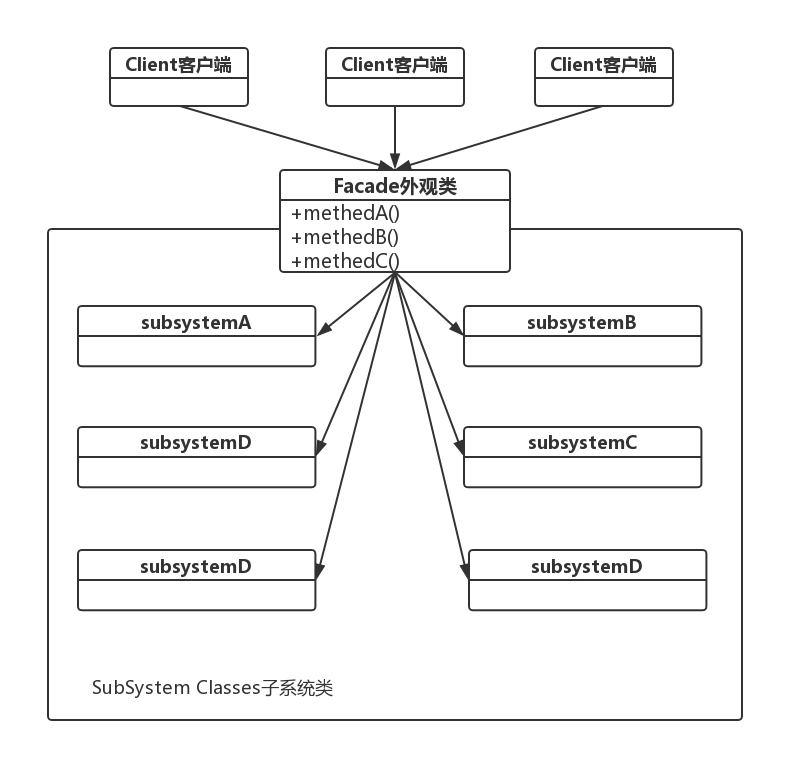
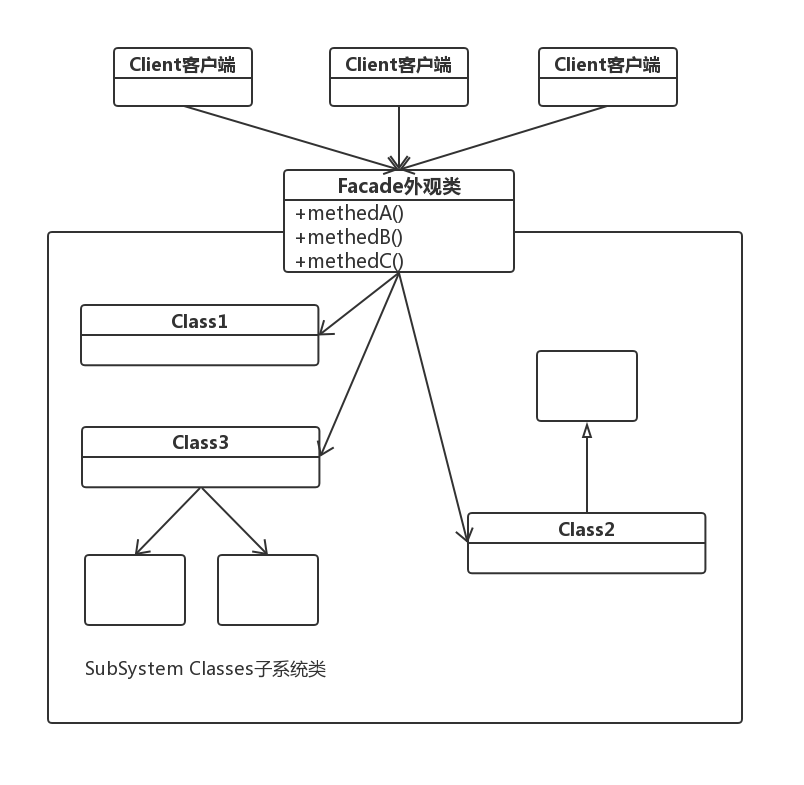
upload img

diff --git a/外观模式（facade pattern）.md b/外观模式（facade pattern）.md
@@ -30,9 +30,17 @@
 
 #### 图示
 
+当一个系统拥有复杂的子系统时：
 
+![没有应用外观模式的系统](https://raw.githubusercontent.com/Mingmingcome/cnblogs/master/images/facade-without-facade.jpg)
+
+当使用了外观模式之后：
+
+![应用外观模式的系统](https://raw.githubusercontent.com/Mingmingcome/cnblogs/master/images/facade-with-facade.jpg)
 
 #### 代码示例
+
+例子：
 
 #### 模式扩展
 
